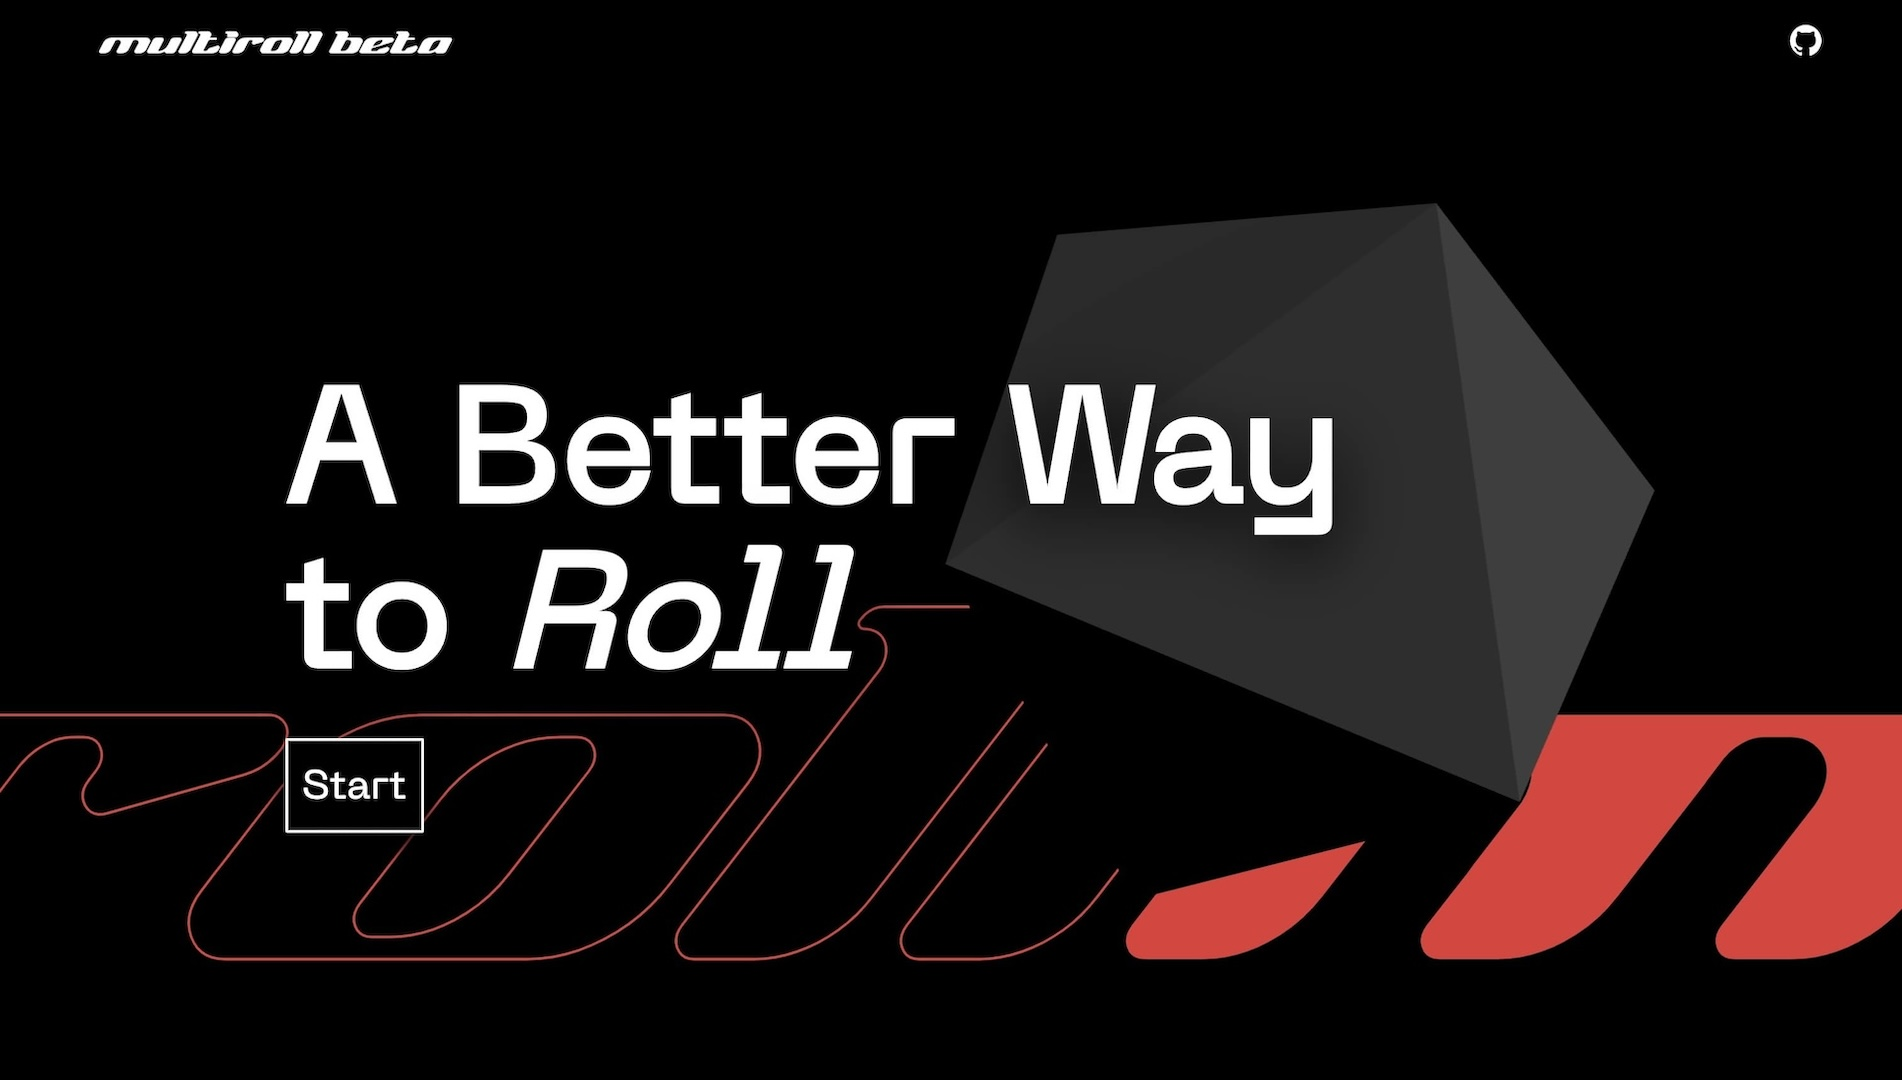
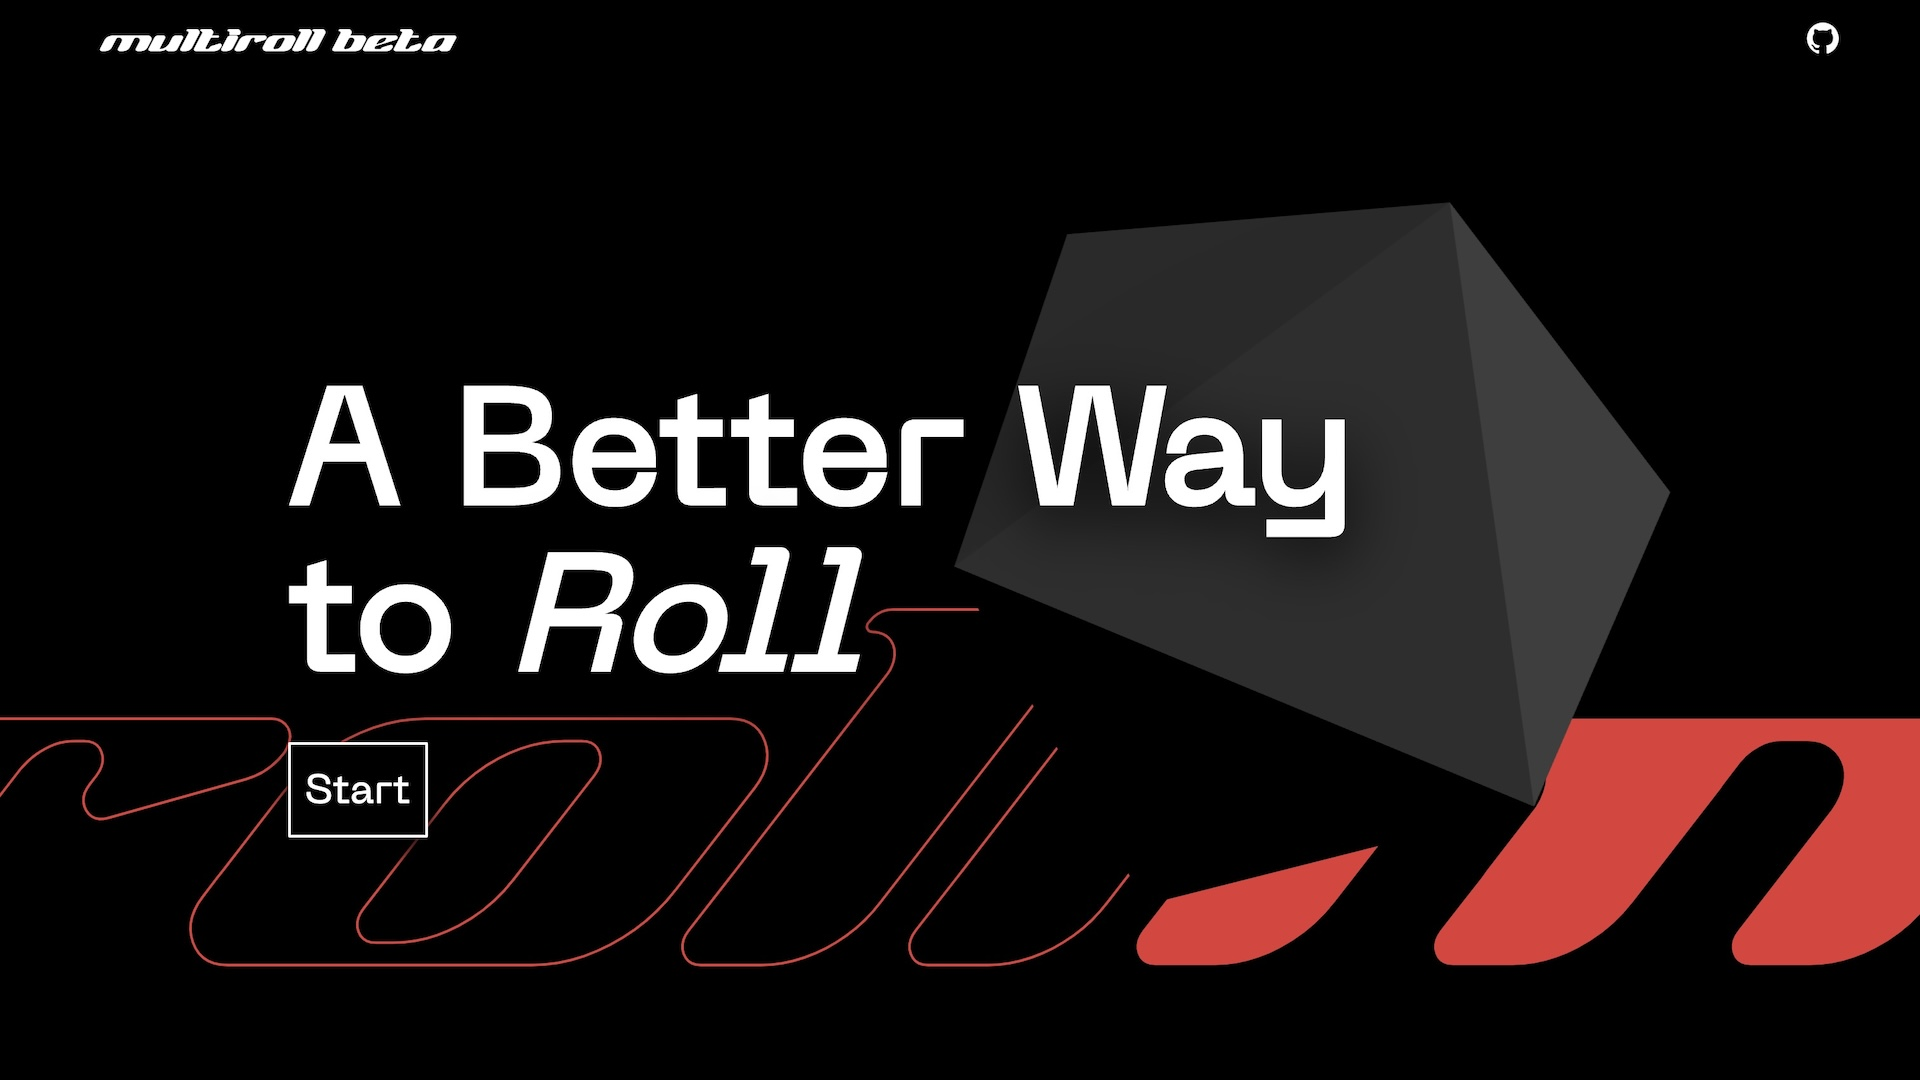
Bg changes

diff --git a/src/App.jsx b/src/App.jsx
@@ -1,5 +1,5 @@
 import Header from "./Components/Header";
-import Background from "/img/1Clittle.png";
+import Background from "/img/1CLittleCropped.png";
 import Nav from "./Components/Nav";
 import Welcome from "./Components/Welcome";
 import Projects from "./Components/Projects";
